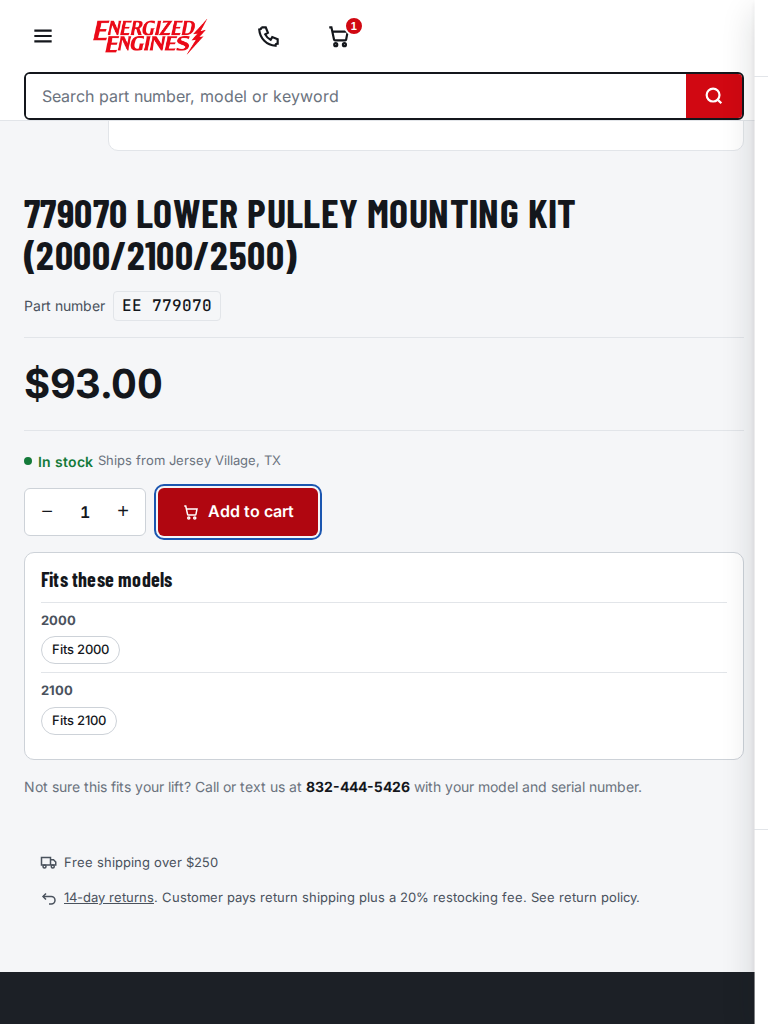
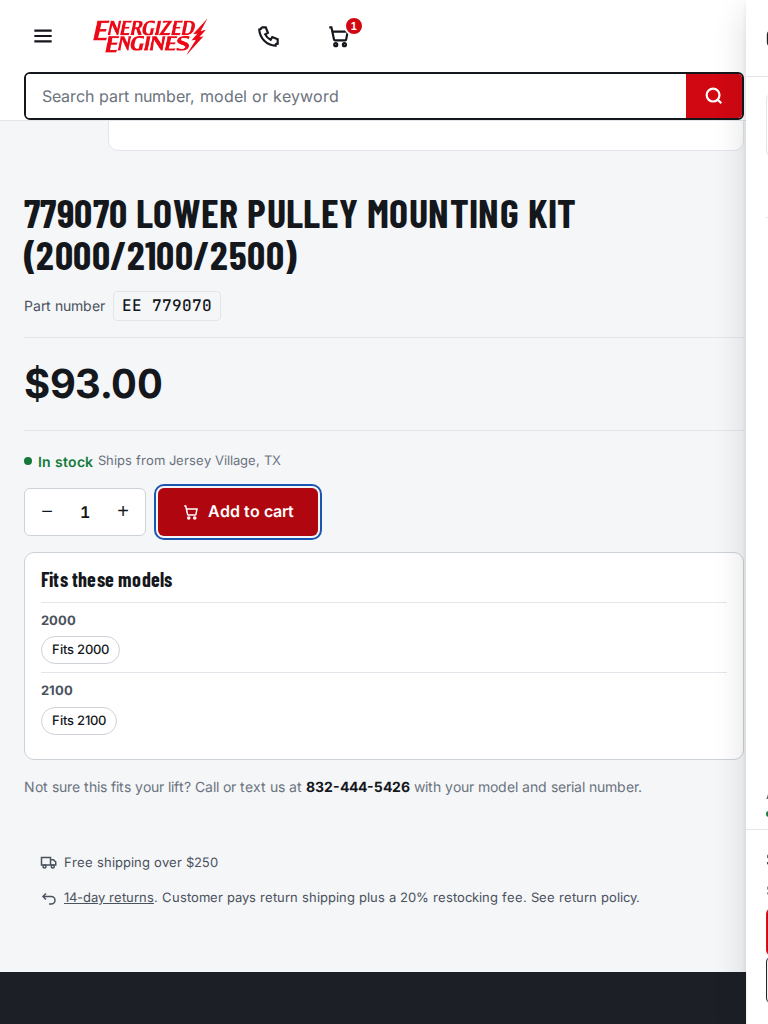
Add default h2 to search page for initial render

Changed region(s): [[0.9688, 0.125, 1.0, 1.0]]

diff --git a/docs/search.html b/docs/search.html
@@ -34,7 +34,7 @@
 <div class="fg"><div class="fg-h" onclick="this.parentElement.classList.toggle('open')"><b>Series</b><svg viewBox="0 0 24 24"><path d="m6 9 6 6 6-6"/></svg></div>
 <div class="fg-b" id="seriesFilters"></div></div>
 <button class="btn btn-sec btn-sm" onclick="clearFilters()" style="margin-top:var(--s-4);width:100%">Clear filters</button></div>
-<div class="srp-main"><div class="srp-bar"><div id="searchCount"></div><div class="srp-sort"><label class="sel sel-sm"><span>Sort</span><select id="sortSelect" class="selbox sm"><option value="relevance">Relevance</option><option value="price-asc">Price: Low to High</option><option value="price-desc">Price: High to Low</option><option value="part-number">Part Number</option></select></label></div></div>
+<div class="srp-main"><div class="srp-bar"><div id="searchCount"><h2>Loading...</h2></div><div class="srp-sort"><label class="sel sel-sm"><span>Sort</span><select id="sortSelect" class="selbox sm"><option value="relevance">Relevance</option><option value="price-asc">Price: Low to High</option><option value="price-desc">Price: High to Low</option><option value="part-number">Part Number</option></select></label></div></div>
 <div id="searchResults"></div>
 <button id="showMoreBtn" class="btn btn-sec" style="display:none;margin:var(--s-6) auto">Show more</button></div>
 </div>

diff --git a/scripts/build-redesign.js b/scripts/build-redesign.js
@@ -861,7 +861,7 @@ function buildSearchPage() {
 <div class="fg"><div class="fg-h" onclick="this.parentElement.classList.toggle('open')"><b>Series</b>${icons.chevronDown}</div>
 <div class="fg-b" id="seriesFilters"></div></div>
 <button class="btn btn-sec btn-sm" onclick="clearFilters()" style="margin-top:var(--s-4);width:100%">Clear filters</button></div>
-<div class="srp-main"><div class="srp-bar"><div id="searchCount"></div><div class="srp-sort"><label class="sel sel-sm"><span>Sort</span><select id="sortSelect" class="selbox sm"><option value="relevance">Relevance</option><option value="price-asc">Price: Low to High</option><option value="price-desc">Price: High to Low</option><option value="part-number">Part Number</option></select></label></div></div>
+<div class="srp-main"><div class="srp-bar"><div id="searchCount"><h2>Loading...</h2></div><div class="srp-sort"><label class="sel sel-sm"><span>Sort</span><select id="sortSelect" class="selbox sm"><option value="relevance">Relevance</option><option value="price-asc">Price: Low to High</option><option value="price-desc">Price: High to Low</option><option value="part-number">Part Number</option></select></label></div></div>
 <div id="searchResults"></div>
 <button id="showMoreBtn" class="btn btn-sec" style="display:none;margin:var(--s-6) auto">Show more</button></div>
 </div>
